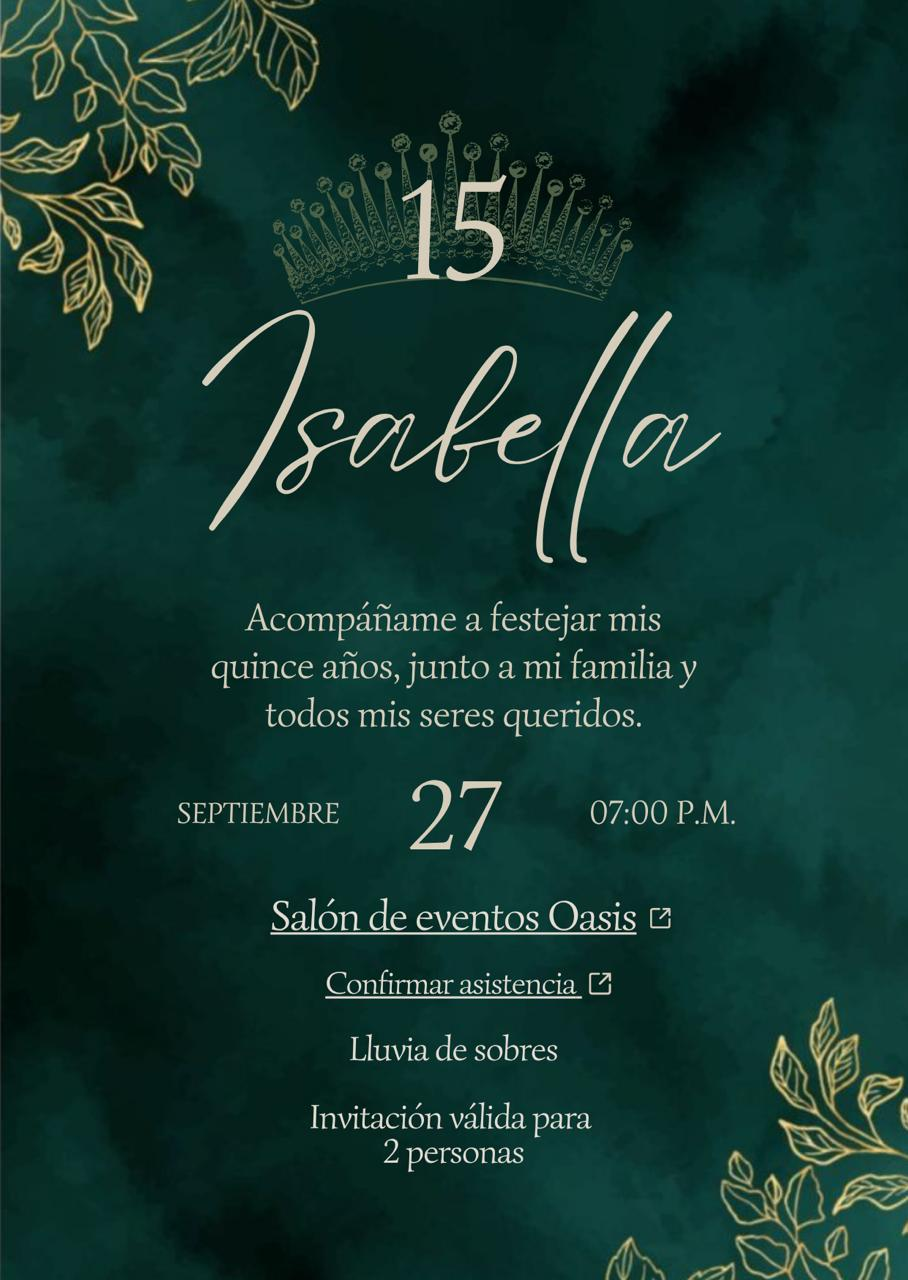
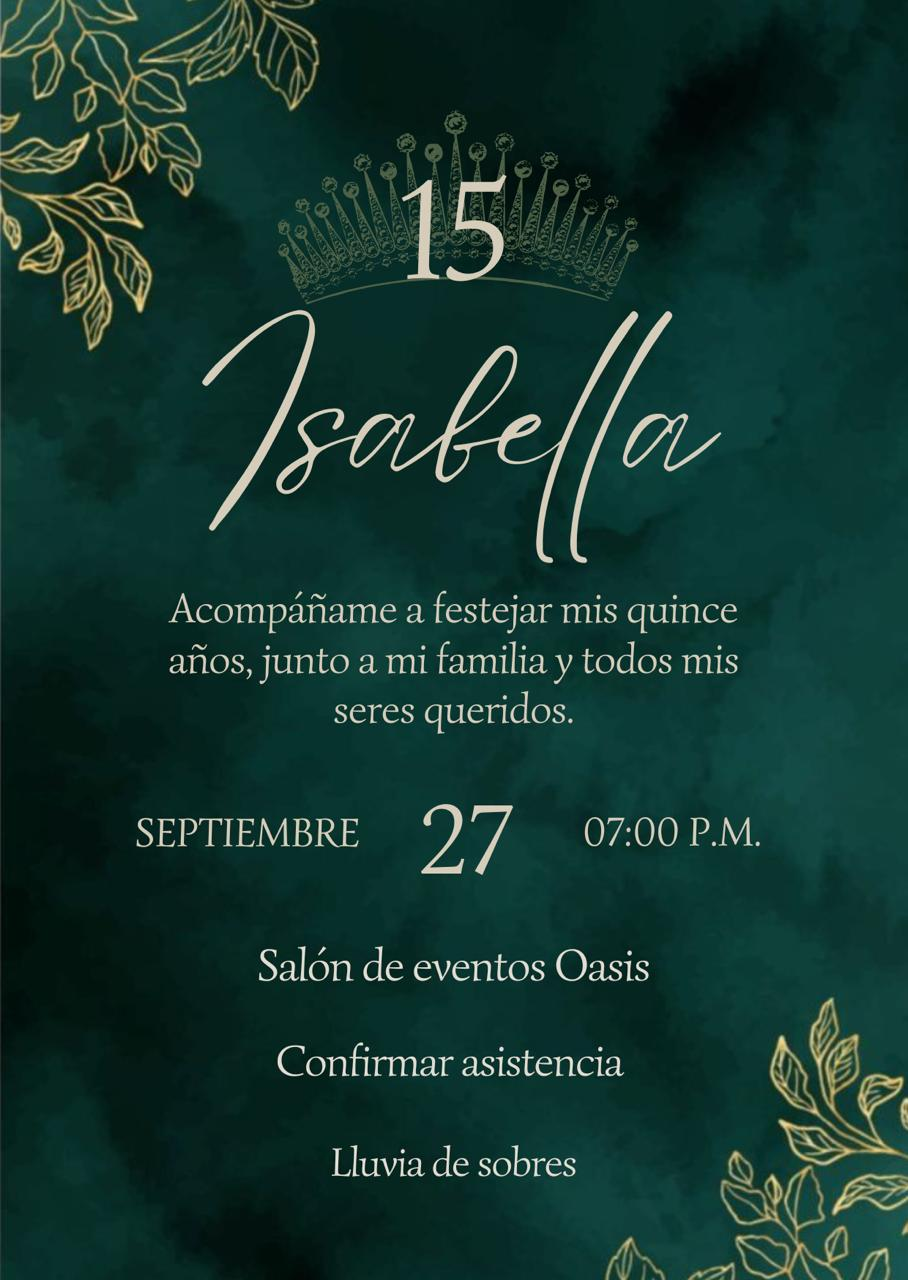
feat: :sparkles: Versión 2 invitación
se agrega fondo al contador e iconos de fontawesome

diff --git a/index.html b/index.html
@@ -5,6 +5,8 @@
     <meta charset="UTF-8" />
     <meta name="viewport" content="width=device-width, initial-scale=1.0" />
     <title>Invitación 15 años Isabella</title>
+    <link rel="stylesheet"
+        href="https://fonts.googleapis.com/css2?family=Material+Symbols+Outlined:opsz,wght,FILL,GRAD@24,400,0,0&icon_names=map_search" />
     <link rel="stylesheet" href="css/style.css">
     <link rel="stylesheet" href="css/counter.css">
 
@@ -12,12 +14,20 @@
 
 <body>
     <div class="container">
-        <img src="img/invitacion.jpeg" alt="Invitación Isabella 15 años" style="border-radius: 5%;" />
-        <a id="link-maps" class="link" href="https://maps.app.goo.gl/2UkA5bAjDwpFqGUj6" target="_blank"
-            title="Ver ubicación"></a>
-        <a id="link-rsvp" class="link" href="https://forms.gle/erWPyQGJE65uLEGW9" target="_blank"
-            title="Confirmar asistencia"></a>
+        <img src="img/invitacion.jpeg" alt="Invitación Isabella 15 años" style="border-radius: 3%;" />
     </div>
+    <!-- Botones de acción -->
+    <div class="botones">
+        <a href="https://maps.app.goo.gl/2UkA5bAjDwpFqGUj6" target="_blank">
+            ¿cómo llegar?
+            <i class="fa-solid fa-location-dot"></i>
+        </a>
+        <a href="https://forms.gle/erWPyQGJE65uLEGW9" target="_blank">
+            ¡Confirmar asistencia!
+            <i class="fa-solid fa-clipboard-check"></i>
+        </a>
+    </div>
+
     <div id="countdown-wrapper">
         <h3>Faltan</h3>
         <div id="countdown">
@@ -27,6 +37,7 @@
             <div><span id="seconds">00</span><small>Segundos</small></div>
         </div>
     </div>
+    <script src="https://kit.fontawesome.com/35e2e7488e.js" crossorigin="anonymous"></script>
     <script src="js/counter.js"></script>
 </body>
 

diff --git a/css/counter.css b/css/counter.css
@@ -1,40 +1,46 @@
 #countdown-wrapper {
-    text-align: center;
-    font-family: 'Georgia', serif;
-    color: #f0e9db;
-    background: rgba(0, 0, 0, 0.6);
-    border-radius: 1rem;
-    margin: 2rem auto;
-    max-width: 400px;
-  }
+  text-align: center;
+  font-family: 'Georgia', serif;
+  color: #f0e9db;
+  /* background: rgb(1,20,15); */
+  /* background: linear-gradient(170deg, rgba(1,20,15,1) 0%, rgba(0,0,0,1) 100%); */
+  background-image: url("../img/bg-counter.png");
+  background-size: cover;
+  background-position: center;
+  background-repeat: no-repeat;
+  border-radius: 1rem;
+  padding: 1rem;
+  max-width: 400px;
+  margin: 2rem auto;
+}
 
-  #countdown-wrapper h3 {
-    font-size: 1.5rem;
-    margin-bottom: 1rem;
-    color: #e0d5b9;
-  }
+#countdown-wrapper h3 {
+  font-size: 1.5rem;
+  margin-bottom: 1rem;
+  color: #e0d5b9;
+}
 
-  #countdown {
-    display: flex;
-    justify-content: space-around;
-    font-size: 1.2rem;
-    gap: 1rem;
-  }
+#countdown {
+  display: flex;
+  justify-content: space-around;
+  font-size: 1.2rem;
+  gap: 1rem;
+}
 
-  #countdown div {
-    background: rgba(255, 255, 255, 0.08);
-    padding: 0.8rem;
-    border-radius: 0.5rem;
-    width: 70px;
-  }
+#countdown div {
+  background: rgba(255, 255, 255, 0.08);
+  padding: 0.3rem;
+  border-radius: 0.5rem;
+  width: 70px;
+}
 
-  #countdown span {
-    display: block;
-    font-size: 1.6rem;
-    color: #fff;
-  }
+#countdown span {
+  display: block;
+  font-size: 1.6rem;
+  color: #e0d5b9;
+}
 
-  #countdown small {
-    font-size: 0.8rem;
-    color: #c5c5c5;
-  }
+#countdown small {
+  font-size: 0.8rem;
+  color: #e0d5b9;
+}

diff --git a/css/style.css b/css/style.css
@@ -5,15 +5,19 @@
 body, html {
     margin: 0;
     padding: 0;
-    height: 100%;
-    background-color: #000;
+    height: 120%;
+    width: 100%;
+    background-color: rgba(0, 0, 0, 0.85);
     font-family: sans-serif;
+    display: flex;
+    flex-direction: column;
+    align-items: center;
 }
 
 .container {
     position: relative;
     max-width: 600px;
-    margin: auto;
+    /* margin: auto; */
     padding: 1rem;
 }
 
@@ -23,24 +27,26 @@ body, html {
     display: block;
 }
 
-.link {
-    position: absolute;
-    display: block;
-    width: 80%;
-    left: 10%;
-    background: rgba(255, 255, 255, 0);
-    text-align: center;
-    padding: 10px 0;
-    font-weight: bold;
+.botones {
+    display: flex;
+    justify-content: center;
+    gap: 0.5rem;
+    flex-wrap: wrap;
+    margin-top: 1rem;
+}
+
+.botones a {
+    background-color: rgba(255, 255, 255, 0.1);
+    color: #f3e8c2;
+    padding: 0.6rem 1.2rem;
+    border-radius: 2rem;
+    font-weight: 600;
     text-decoration: none;
-    color: transparent;
-    /* invisible but clickable */
+    font-size: 0.95rem;
+    transition: background 0.3s;
+    border: 1px solid rgba(255, 255, 255, 0.2);
 }
 
-#link-maps {
-    top: 72%;
-}
-
-#link-rsvp {
-    top: 77%;
+.botones a:hover {
+    background-color: rgba(255, 255, 255, 0.2);
 }
